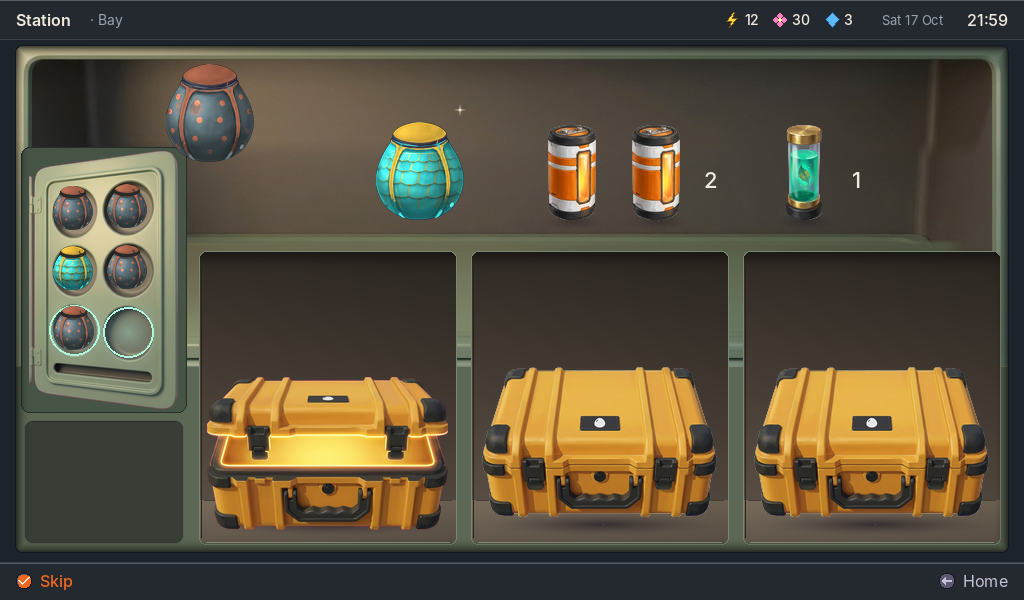
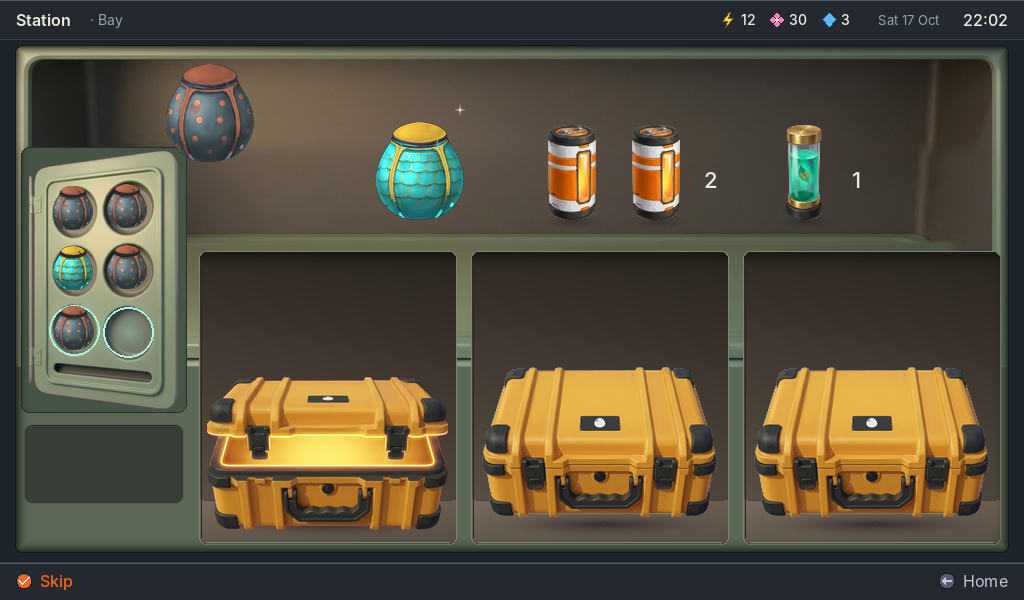
T-20261016-197 finish: the waiting spot at UI/UX's rect

Changed region(s): [[0.0, 0.84, 0.1875, 0.93], [0.6875, 0.0, 1.0, 0.06], [0.0312, 0.69, 0.1875, 0.72]]

diff --git a/results/T-20261016-197/finish/make-cargo-finish.py b/results/T-20261016-197/finish/make-cargo-finish.py
@@ -8,7 +8,7 @@ OUT = SCR + 'out/'
 RAW = SCR + 'raw/'
 BX, BY, BW, BH = 16, 46, 992, 506           # the bay window (screen)
 def w2s(x, y): return x - BX, y - BY        # screen -> window coords
-HATCH = w2s(24, 150) + (160, 260); WAIT = w2s(24, 420) + (160, 124); DISPLAY = w2s(200, 60) + (800, 180)
+HATCH = w2s(24, 150) + (160, 260); WAIT = w2s(24, 424) + (160, 80); DISPLAY = w2s(200, 60) + (800, 180)
 BERTHS = [w2s(200 + i * 272, 252) + (256, 292) for i in range(3)]
 POD_L = pod('collection', '#465459', '#ae674d', 'dots'); POD_T = pod('collection', '#269fa5', '#e8b83f', 'plates')
 WELL_L = pod('well', '#465459', '#ae674d', 'dots'); WELL_T = pod('well', '#269fa5', '#e8b83f', 'plates')
@@ -78,8 +78,8 @@ def waiting(c, pods):
     d.line((x + 8, y + 1, x + w - 9, y + 1), fill=(40, 44, 38))
     pw, ph = pods[0].size if pods else (0, 0); gap = 8; n = len(pods)
     for i, p in enumerate(pods):                                  # stored pods keep the wells' size, oldest at the left
-        px = x + (w - (n * pw + (n - 1) * gap)) // 2 + i * (pw + gap)
-        place(c, master('pods/cargo-store-shadow-48x14.png'), (px + (pw - 48) // 2, y + h - 30)); place(c, p, (px, y + h - ph - 22))
+        px = x + (w - (3 * pw + 2 * gap)) // 2 + i * (pw + gap)   # three fixed places; a newcomer settles at the right
+        place(c, master('pods/cargo-store-shadow-48x14.png'), (px + (pw - 48) // 2, y + h - 22)); place(c, p, (px, y + h - ph - 14))
 def display(c, items):
     x, y, w, h = DISPLAY; d = ImageDraw.Draw(c)
     for kind, obj, px, extra in items:

diff --git a/results/T-20261016-197/finish/art-director.md b/results/T-20261016-197/finish/art-director.md
@@ -57,6 +57,6 @@ The owner approved Cargo (21:51). It covers two things: UI/UX's crate-by-crate s
 
 ## Open
 
-- **Waiting spot (UI/UX):** at the wells' size, one waiting pod is small on a mat sized for the display pod. The mat could shrink to fit three stored pods in a row (about 160 × 80), leaving the floor for the bay.
+- **Waiting spot: settled with UI/UX.** It is now 24, 424, 160 × 80, the floor under the hatch. Three stored pods sit in a row, oldest at the left, and a newcomer settles at the right. A fourth or more shows as "+n". The stills are redrawn to it.
 - **The back wall:** at rest and at the end, the upper third of the bay is its back wall alone, and `cargo-bay-992x320` is soft there. It holds, since this is a quiet room between crates, but a sharper painted back wall would be the first master to upgrade. It is one request, not made.
 - **A find with no page** stays parked with the creative director, as the structure says.
